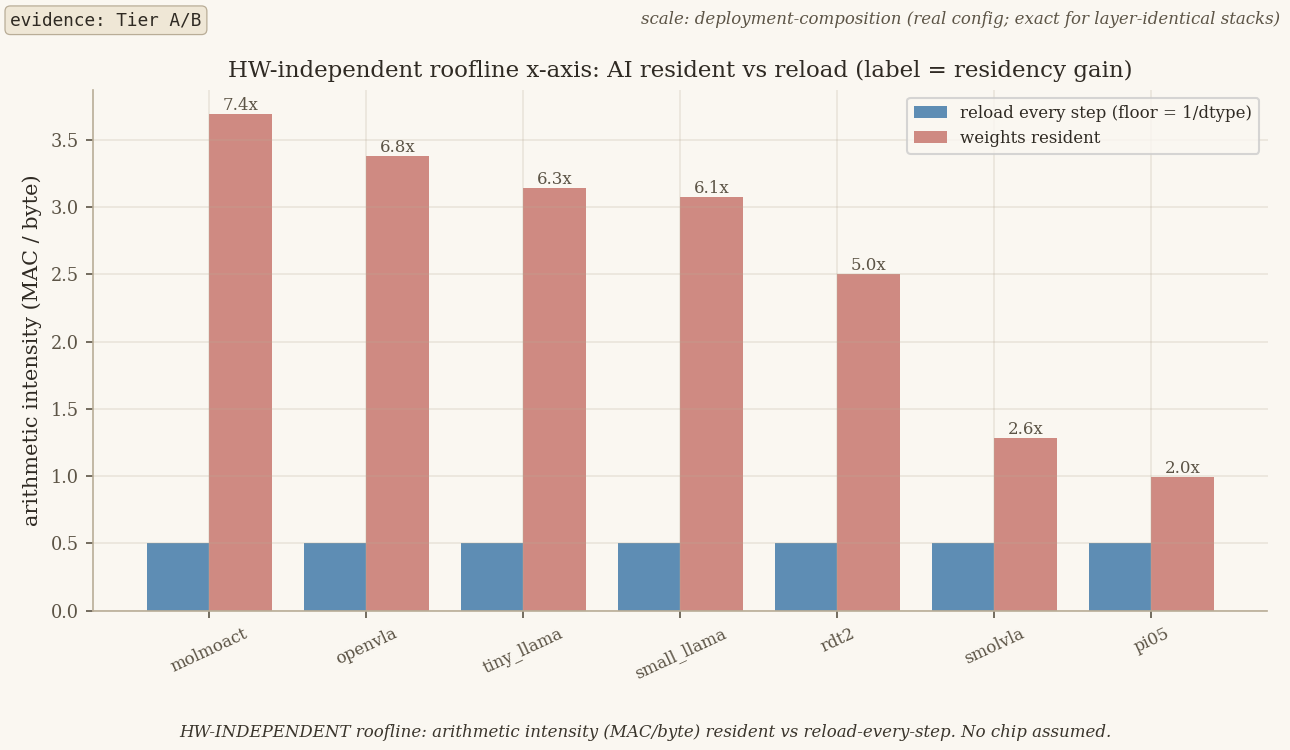
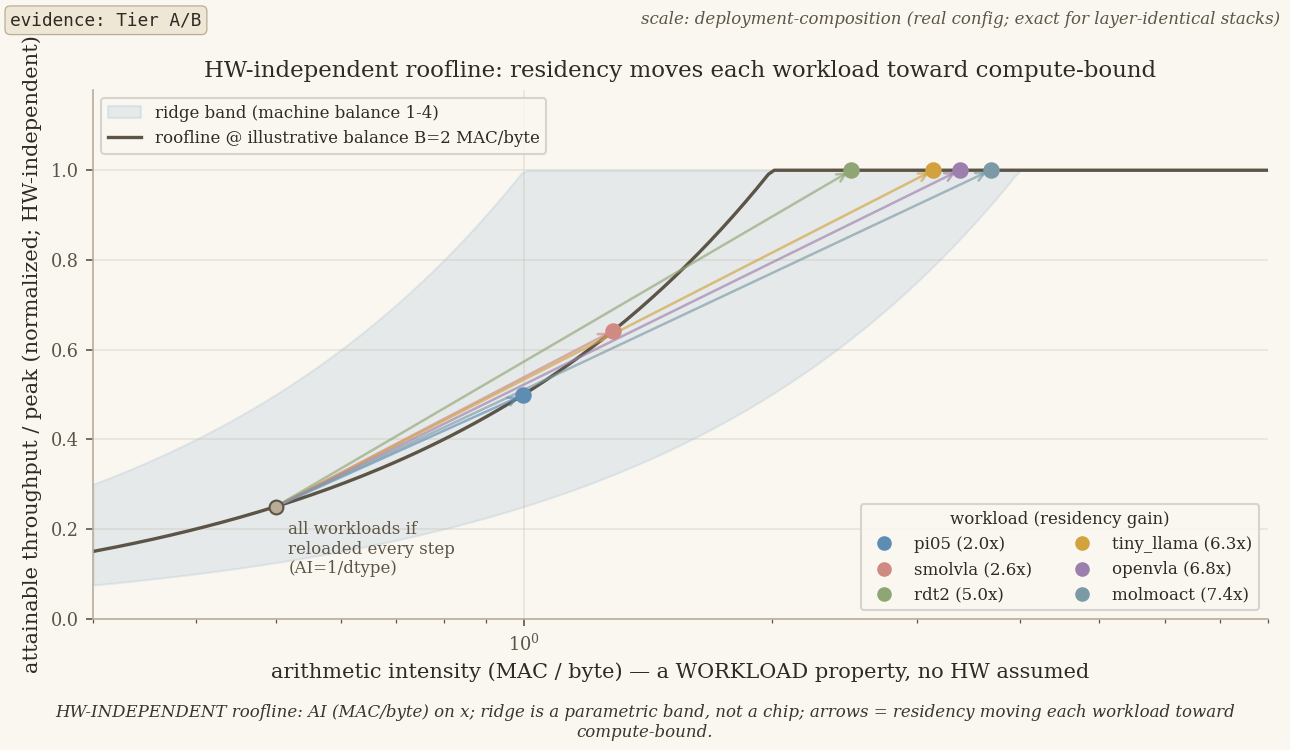
P24-E+: presentation figures — capture-fidelity heatmap, roofline diagram, slide tables
New/upgraded conference figures (regenerate with the run):
- capture_fidelity.png (NEW, the thesis figure): per feature x workload, structural contract recovered
  from IR (S/R/M) vs erased (x: packed-lowbit+scale) vs intentionally not-claimed (- : latency), with a
  right-margin '# recovered (of 10)' summary bar.
- arithmetic_intensity_roofline.png: upgraded from grouped bars to a real log-log roofline DIAGRAM —
  AI on x, normalized attainable on y, ridge as a PARAMETRIC band (no chip), arrows = residency moving
  each workload toward compute-bound; workloads in a legend (declutters the curve).
- boundary_necessity_matrix.png: added a '# need N/U (of 10)' summary bar -> 'build top rows first'.
- decision_weight_residency.png: decluttered (highlight 3 heaviest, annotate IR-recovered K, compact legend).
- 4 slide tables rendered as PNG: table_capture_summary, table_low_bit_tiers, table_deployment_magnitudes,
  table_arithmetic_intensity (styled header + zebra rows).
- dropped synthetic small_llama from magnitude/roofline/tables for corpus consistency.
33 figures render; verifier 630/630 unaffected.

Changed region(s): [[0.0, 0.0613, 0.9922, 0.9813]]

diff --git a/merlin/python/merlin/dse_guidance/presentation_plots.py b/merlin/python/merlin/dse_guidance/presentation_plots.py
@@ -93,7 +93,12 @@ _PLOT_META = {
     "work_coverage_by_workload": ("A", _CAPTURED, "Recovered linear-GEMM vs attention MAC mass per workload (IR shapes; captured-config; log)."),
     "visible_linear_fraction": ("A", _NOSCALE, "Share of recovered MAC work that is linear-GEMM geometry (rest = attention)."),
     "deployment_magnitude": ("B", _DEPLOY, "Deployment params & MACs/replan by config-composition (embed + per-layer x real n_layers)."),
-    "arithmetic_intensity_roofline": ("A/B", _DEPLOY, "HW-INDEPENDENT roofline: arithmetic intensity (MAC/byte) resident vs reload-every-step. No chip assumed."),
+    "arithmetic_intensity_roofline": ("A/B", _DEPLOY, "HW-INDEPENDENT roofline: AI (MAC/byte) on x; ridge is a parametric band, not a chip; arrows = residency moving each workload toward compute-bound."),
+    "capture_fidelity": ("A/B", _NOSCALE, "Per feature x workload: structural contract recovered from IR (S/R/M) vs erased (x) vs intentionally not-claimed (—). The contribution, made visual."),
+    "table_capture_summary": ("A", _NOSCALE, "Recovered loop contract per workload: K, repeated-region ops, loop-carried operands, KV cache — all Tier-A from scf.for."),
+    "table_low_bit_tiers": ("A/B", _NOSCALE, "Low-bit tier per workload; int8 accuracy ratified by the measured gate; fp8/int4 never assumed."),
+    "table_deployment_magnitudes": ("B", _DEPLOY, "Deployment params/MACs by config-composition; openVLA & tiny_llama are exact external anchors."),
+    "table_arithmetic_intensity": ("A/B", _DEPLOY, "Arithmetic intensity resident vs reload + residency gain per workload (HW-independent)."),
 }
 
 
@@ -310,18 +315,30 @@ def _r_decision_weight_residency(cs, facts, ax):
         return False
     kmax = max(max(int(r["invocations"]), 2) for r in rows)
     ks = list(range(1, kmax + 1))
+    import matplotlib.lines as mlines
+    # declutter: highlight the 3 heaviest-reload workloads in color + label; the rest stay light grey.
+    rows = sorted(rows, key=lambda r: -int(r["weight_bytes"]))
+    top = {r["workload"] for r in rows[:3]}
+    ci = 0
     for r in rows:
-        wb = int(r["weight_bytes"])
-        line, = ax.plot(ks, [wb * k for k in ks], label=f"{r['workload']} reload")
-        ax.plot(ks, [wb] * len(ks), "--", color=line.get_color(), alpha=0.6)
-        kr = int(r["invocations"])
-        ax.scatter([kr], [wb * kr], color=line.get_color(), zorder=5, s=18)
-    ax.set_title("Decision: weight residency -> bytes moved vs loop count\n"
-                 "(solid=reload every step, dashed=resident; dot=IR-recovered K (scf.for trip count))")
+        wb, kr, hot = int(r["weight_bytes"]), int(r["invocations"]), r["workload"] in top
+        col = PALETTE[ci % len(PALETTE)] if hot else "#cdc3ad"
+        if hot:
+            ci += 1
+        ax.plot(ks, [wb * k for k in ks], color=col, lw=1.8 if hot else 1.0, zorder=3 if hot else 1)
+        ax.plot(ks, [wb] * len(ks), "--", color=col, alpha=0.7 if hot else 0.4)
+        ax.scatter([kr], [wb * kr], color=col, zorder=5, s=26 if hot else 14)
+        if hot:
+            ax.annotate(f"{r['workload']} (K={kr})", (kr, wb * kr), fontsize=8,
+                        xytext=(4, 3), textcoords="offset points", color=col)
+    ax.set_title("Decision: weight residency -> bytes moved vs loop count K (IR-recovered, scf.for)")
     ax.set_xlabel("head loop count K")
-    ax.set_ylabel("weight bytes moved")
+    ax.set_ylabel("weight bytes moved (log10)")
     ax.set_yscale("log")
-    ax.legend(fontsize=8, ncol=2)
+    ax.legend(handles=[mlines.Line2D([], [], color="#5c5446", label="reload every step (x K)"),
+                       mlines.Line2D([], [], color="#5c5446", ls="--", label="resident (load once)"),
+                       mlines.Line2D([], [], color="#5c5446", marker="o", ls="", label="IR-recovered K")],
+              fontsize=8, loc="upper left")
     return True
 
 
@@ -442,7 +459,19 @@ def _r_boundary_necessity_matrix(cs, facts, ax):
         for j, w in enumerate(wls):
             ax.text(j, i, _NEC_ABBR[r[w]], ha="center", va="center", fontsize=8,
                     color="white" if mat[i][j] >= 3 else "black")
-    ax.set_title("Abstraction necessity (N=necessary U=useful P=possible B=blocked –=N/A)")
+    # right-margin summary: # workloads for which the abstraction is necessary-or-useful (rank >= 3)
+    strong = [sum(1 for w in wls if _NEC_RANK[r[w]] >= 3) for r in rows]
+    iax = ax.inset_axes([1.03, 0.0, 0.16, 1.0])
+    iax.barh(range(len(rows)), strong, color=PALETTE[2], height=0.7)
+    iax.set_ylim(ax.get_ylim())
+    iax.set_yticks([])
+    iax.set_xlim(0, len(wls))
+    iax.tick_params(labelsize=8)
+    iax.set_xlabel(f"# need N/U\n(of {len(wls)})", fontsize=8)
+    for i, v in enumerate(strong):
+        iax.text(v + 0.1, i, str(v), va="center", fontsize=8, color="#5c5446")
+    ax.set_title("Abstraction necessity (N=necessary U=useful P=possible B=blocked –=N/A) — "
+                 "build top rows first")
     return True
 
 
@@ -629,13 +658,13 @@ def _r_workload_influence_loo_delta(cs, facts, ax):
 
 def _r_deployment_magnitude(cs, facts, ax):
     """Deployment-scale params & MACs/replan by config-composition (the T1 magnitude fix)."""
-    rows = _rows(cs / "real_config_magnitudes.csv")
+    rows = [r for r in _rows(cs / "real_config_magnitudes.csv") if r["workload"] != "small_llama"]
     if not rows:
         return False
     rows = sorted(rows, key=lambda r: -float(r["total_gemm_params"]))
     wl = [r["workload"] for r in rows]
     params = [float(r["total_gemm_params"]) for r in rows]
-    macs = [float(r["gemm_macs_per_token"]) for r in rows]
+    macs = [float(r["gemm_macs_per_token"] or 0) for r in rows]
     x = range(len(wl))
     ax.bar([i - 0.2 for i in x], params, 0.4, label="GEMM params")
     ax.bar([i + 0.2 for i in x], macs, 0.4, label="GEMM MACs / token")
@@ -648,29 +677,190 @@ def _r_deployment_magnitude(cs, facts, ax):
 
 
 def _r_arithmetic_intensity_roofline(cs, facts, ax):
-    """HW-INDEPENDENT roofline: arithmetic intensity (MAC/byte), resident vs reload-every-step."""
-    rows = _rows(cs / "arithmetic_intensity.csv")
+    """HW-INDEPENDENT roofline DIAGRAM: AI on x (log), normalized attainable throughput on y; the ridge
+    is a PARAMETRIC band over plausible machine balances (no chip). Each workload sits at its AI; an arrow
+    shows residency moving it rightward (reload-every-step -> resident) toward compute-bound."""
+    import math
+    rows = [r for r in _rows(cs / "arithmetic_intensity.csv") if r["workload"] != "small_llama"]
     if not rows:
         return False
-    rows = sorted(rows, key=lambda r: -float(r["ai_resident_mac_per_byte"]))
-    wl = [r["workload"] for r in rows]
-    res = [float(r["ai_resident_mac_per_byte"]) for r in rows]
-    non = [float(r["ai_nonresident_mac_per_byte"]) for r in rows]
-    gain = [float(r["residency_gain"]) for r in rows]
-    x = range(len(wl))
-    ax.bar([i - 0.2 for i in x], non, 0.4, label="reload every step (floor = 1/dtype)")
-    ax.bar([i + 0.2 for i in x], res, 0.4, label="weights resident")
-    for i, g in zip(x, gain):
-        ax.annotate(f"{g:.1f}x", (i + 0.2, res[i]), fontsize=8, ha="center", va="bottom",
-                    color="#5c5446")
-    ax.set_xticks(list(x), wl, rotation=25, fontsize=8)
-    ax.set_ylabel("arithmetic intensity (MAC / byte)")
-    ax.set_title("HW-independent roofline x-axis: AI resident vs reload (label = residency gain)")
-    ax.legend(fontsize=8)
+    rows = sorted(rows, key=lambda r: float(r["ai_resident_mac_per_byte"]))
+    B0, Blo, Bhi = 2.0, 1.0, 4.0                       # illustrative ridge + plausible band (MAC/byte)
+    xs = [0.3 * (10 ** (i * math.log10(8 / 0.3) / 200)) for i in range(201)]
+    roof = lambda ai, B: min(1.0, ai / B)             # noqa: E731  normalized attainable (peak=1)
+    ax.fill_between(xs, [roof(a, Bhi) for a in xs], [roof(a, Blo) for a in xs],
+                    color=PALETTE[0], alpha=0.13, label=f"ridge band (machine balance {Blo:.0f}-{Bhi:.0f})")
+    ax.plot(xs, [roof(a, B0) for a in xs], color="#5c5446", lw=1.6,
+            label=f"roofline @ illustrative balance B={B0:.0f} MAC/byte")
+    import matplotlib.lines as mlines
+    nonres = float(rows[0]["ai_nonresident_mac_per_byte"])     # 0.5 at bf16, shared by all
+    ax.scatter([nonres], [roof(nonres, B0)], color="#b9ad97", zorder=4, s=44, edgecolor="#5c5446")
+    ax.annotate("all workloads if\nreloaded every step\n(AI=1/dtype)", (nonres, roof(nonres, B0)),
+                fontsize=8, xytext=(6, -32), textcoords="offset points", color="#5c5446")
+    wl_handles = []
+    for i, r in enumerate(rows):
+        res, g = float(r["ai_resident_mac_per_byte"]), float(r["residency_gain"])
+        y, col = roof(res, B0), PALETTE[i % len(PALETTE)]
+        ax.annotate("", xy=(res, y), xytext=(nonres, roof(nonres, B0)),
+                    arrowprops=dict(arrowstyle="->", color=col, alpha=0.65, lw=1.2))
+        ax.scatter([res], [y], color=col, zorder=5, s=48)
+        wl_handles.append(mlines.Line2D([], [], color=col, marker="o", ls="",
+                                        label=f"{r['workload']} ({g:.1f}x)"))
+    ax.set_xscale("log")
+    ax.set_xlim(0.3, 8)
+    ax.set_ylim(0, 1.18)
+    ax.set_xlabel("arithmetic intensity (MAC / byte) — a WORKLOAD property, no HW assumed")
+    ax.set_ylabel("attainable throughput / peak (normalized; HW-independent)")
+    ax.set_title("HW-independent roofline: residency moves each workload toward compute-bound")
+    # two legends: the roofline/band, and the workloads (with residency gain) — keeps labels off the curve
+    band_leg = ax.legend(fontsize=8, loc="upper left")
+    ax.add_artist(band_leg)
+    ax.legend(handles=wl_handles, fontsize=8, loc="lower right", ncol=2, title="workload (residency gain)",
+              title_fontsize=8)
     return True
 
 
+# ---- capture fidelity (the thesis figure) + slide tables ------------------------------------------
+_FID_ORDER = ["strong", "recovered", "measured", "assumed", "erased", "not_claimed", "na"]
+_FID_COLOR = {"strong": "#5e8db4", "recovered": "#8fa674", "measured": "#7c9aa6",
+              "assumed": "#d2a23f", "erased": "#cf8a82", "not_claimed": "#c9bfa8", "na": "#efe7d6"}
+_FID_GLYPH = {"strong": "S", "recovered": "R", "measured": "M", "assumed": "A",
+              "erased": "x", "not_claimed": "—", "na": ""}
+
+
+def _fid_state(s: str) -> str:
+    s = str(s).lower()
+    for k in ("strong", "recovered", "measured", "assumed", "erased", "not_claimed"):
+        if s.startswith(k):
+            return k
+    return "na"
+
+
+def _r_capture_fidelity(cs, facts, ax):
+    """THE thesis figure: per feature x workload, what the loop-preserving capture recovers from IR
+    (S=structural, R=recovered, M=measured-host) vs erased (x) vs intentionally not-claimed (-)."""
+    from merlin.dse_guidance import insight_mining as IM
+    import matplotlib.patches as mpatches
+    from matplotlib.colors import ListedColormap
+    cf = IM.capture_fidelity(cs)
+    wls, matrix = cf.get("workloads", []), cf.get("matrix", [])
+    if not matrix:
+        return False
+    feats = [row["feature"] for row in matrix]
+    states = [[_fid_state(row.get(w, "")) for w in wls] for row in matrix]
+    cidx = {s: i for i, s in enumerate(_FID_ORDER)}
+    cmap = ListedColormap([_FID_COLOR[s] for s in _FID_ORDER])
+    grid = [[cidx[s] for s in row] for row in states]
+    ax.imshow(grid, aspect="auto", cmap=cmap, vmin=0, vmax=len(_FID_ORDER) - 1)
+    ax.set_xticks(range(len(wls)), wls, rotation=30, fontsize=8)
+    ax.set_yticks(range(len(feats)), [f.replace("_", " ") for f in feats], fontsize=8)
+    for i, row in enumerate(states):
+        for j, s in enumerate(row):
+            if _FID_GLYPH[s]:
+                ax.text(j, i, _FID_GLYPH[s], ha="center", va="center", fontsize=8,
+                        color="white" if s in ("strong", "erased", "measured") else "#2f2a23")
+    # right-margin summary: # workloads recovered (S/R/M) per feature
+    rec = [sum(1 for s in row if s in ("strong", "recovered", "measured")) for row in states]
+    iax = ax.inset_axes([1.03, 0.0, 0.15, 1.0])
+    iax.barh(range(len(feats)), rec, color=PALETTE[2], height=0.7)
+    iax.set_ylim(ax.get_ylim())
+    iax.set_yticks([])
+    iax.set_xlim(0, len(wls))
+    iax.tick_params(labelsize=8)
+    iax.set_xlabel(f"# recov\n(of {len(wls)})", fontsize=8)
+    for i, v in enumerate(rec):
+        iax.text(v + 0.1, i, str(v), va="center", fontsize=8, color="#5c5446")
+    handles = [mpatches.Patch(color=_FID_COLOR[s], label=lbl) for s, lbl in
+               [("strong", "structural (S)"), ("recovered", "recovered-from-IR (R)"),
+                ("measured", "measured-host (M)"), ("erased", "erased (x)"),
+                ("not_claimed", "not-claimed (—)"), ("na", "n/a")]]
+    ax.legend(handles=handles, fontsize=8, ncol=3, loc="upper center", bbox_to_anchor=(0.5, -0.16))
+    ax.set_title("Capture fidelity: loop-preserving capture recovers the structural contract from IR")
+    return True
+
+
+def _h(n: float) -> str:
+    n = float(n)
+    for d, suf in ((1e9, "B"), (1e6, "M"), (1e3, "k")):
+        if abs(n) >= d:
+            return f"{n / d:.2f}{suf}"
+    return f"{n:.0f}"
+
+
+def _render_table(ax, columns, rows, title):
+    ax.axis("off")
+    tbl = ax.table(cellText=rows, colLabels=columns, loc="center", cellLoc="center")
+    tbl.auto_set_font_size(False)
+    tbl.set_fontsize(8.5)
+    tbl.scale(1, 1.5)
+    for (r, c), cell in tbl.get_celld().items():
+        cell.set_edgecolor("#b9ad97")
+        if r == 0:
+            cell.set_facecolor(PALETTE[0])
+            cell.set_text_props(color="white", fontweight="bold")
+        else:
+            cell.set_facecolor("#fbf8f1" if r % 2 else "#efe7d6")
+    ax.set_title(title, pad=14)
+    return True
+
+
+def _r_table_capture_summary(cs, facts, ax):
+    rows = [r for r in _rows(cs / "loop_aware_contract.csv") if r["workload"] != "small_llama"]
+    if not rows:
+        return False
+    rows = sorted(rows, key=lambda r: r["workload"])
+    body = [[r["workload"], r["K_ir"], r["repeated_region_ops"], r["n_loop_carried"],
+             (r["kv_cache_bytes_ir"] if r["kv_cache_bytes_ir"] not in ("", "n/a")
+              else "n/a (prefix-KV)")] for r in rows]
+    return _render_table(ax, ["workload", "K (IR)", "repeated\nregion ops", "loop-carried\noperands",
+                              "KV cache (IR)"], body,
+                         "Recovered loop contract (all Tier-A, from scf.for)")
+
+
+def _r_table_low_bit_tiers(cs, facts, ax):
+    rows = _rows(cs / "low_bit_visibility.csv")
+    if not rows:
+        return False
+    order = {"native": 0, "qdq_int8": 1, "dequant_only": 2}
+    rows = sorted(rows, key=lambda r: (order.get(r["tier"], 9), r["workload"]))
+    body = [[r["workload"], r["tier"], r["storage"], r["scale"],
+             r["accuracy_status"].split(" (")[0]] for r in rows]
+    return _render_table(ax, ["workload", "tier", "storage", "scale", "int8 accuracy"], body,
+                         "Low-bit visibility (int8 ratified by measured gate; fp8/int4 never assumed)")
+
+
+def _r_table_deployment_magnitudes(cs, facts, ax):
+    rows = [r for r in _rows(cs / "real_config_magnitudes.csv") if r["workload"] != "small_llama"]
+    if not rows:
+        return False
+    rows = sorted(rows, key=lambda r: -float(r["total_gemm_params"]))
+    body = [[r["workload"], r["total_layers"], _h(r["total_gemm_params"]),
+             (_h(r["gemm_macs_per_token"]) if r["gemm_macs_per_token"] else "n/a"),
+             ("anchor" if r["workload"] in ("openvla", "tiny_llama") else "composed")]
+            for r in rows]
+    return _render_table(ax, ["workload", "layers", "GEMM params", "MACs/token", "source"], body,
+                         "Deployment magnitudes by config-composition (exact for layer-identical stacks)")
+
+
+def _r_table_arithmetic_intensity(cs, facts, ax):
+    rows = [r for r in _rows(cs / "arithmetic_intensity.csv") if r["workload"] != "small_llama"]
+    if not rows:
+        return False
+    rows = sorted(rows, key=lambda r: -float(r["residency_gain"]))
+    body = [[r["workload"], r["K"], f"{float(r['ai_resident_mac_per_byte']):.2f}",
+             f"{float(r['ai_nonresident_mac_per_byte']):.2f}",
+             f"{float(r['residency_gain']):.1f}x"] for r in rows]
+    return _render_table(ax, ["workload", "K", "AI resident\n(MAC/byte)", "AI reload\n(MAC/byte)",
+                              "residency\ngain"], body,
+                         "Arithmetic intensity (HW-independent; residency gain = (prefix+rep*K)/(prefix+rep))")
+
+
 _RENDERERS = {
+    "capture_fidelity": _r_capture_fidelity,
+    "table_capture_summary": _r_table_capture_summary,
+    "table_low_bit_tiers": _r_table_low_bit_tiers,
+    "table_deployment_magnitudes": _r_table_deployment_magnitudes,
+    "table_arithmetic_intensity": _r_table_arithmetic_intensity,
     "deployment_magnitude": _r_deployment_magnitude,
     "arithmetic_intensity_roofline": _r_arithmetic_intensity_roofline,
     "evidence_type_by_workload": _r_evidence_by_workload,
@@ -715,8 +905,10 @@ def render_plots(plot_manifest, cs_dir, facts, out_dir) -> list[str]:
     manifest_ids = {p["plot_id"] for p in plot_manifest}
     # always-on headline figures (deployment-scale + HW-independent roofline) even if the manifest
     # predates them — they are the reviewer-facing magnitude/roofline figures (Phase B/C).
-    extra = [{"plot_id": pid} for pid in ("deployment_magnitude", "arithmetic_intensity_roofline")
-             if pid not in manifest_ids]
+    extra = [{"plot_id": pid} for pid in (
+        "capture_fidelity", "deployment_magnitude", "arithmetic_intensity_roofline",
+        "table_capture_summary", "table_low_bit_tiers", "table_deployment_magnitudes",
+        "table_arithmetic_intensity") if pid not in manifest_ids]
     for p in list(plot_manifest) + extra:
         r = _RENDERERS.get(p["plot_id"])
         if r is None or p.get("recommendation") == "omit":
